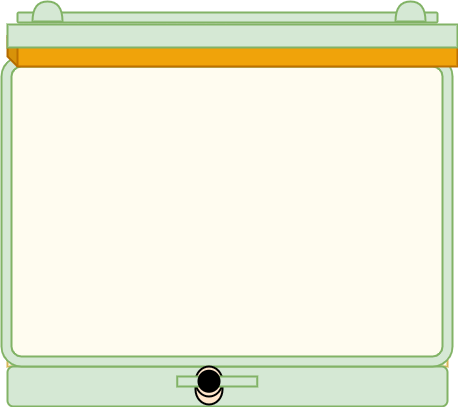
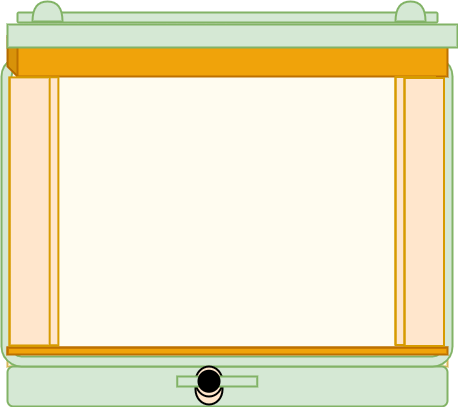
agarosegel

Changed region(s): [[0.0, 0.1179, 1.0, 0.8845]]

diff --git a/experiment/simulation/js/main.js b/experiment/simulation/js/main.js
@@ -40,7 +40,7 @@ function gel_prep() {
 
   if (selectedCheckboxes.length === 3) {
     const selectedValues = selectedCheckboxes.map(checkbox => checkbox.value);
-
+    
     // Check if the selected values are correct
     if (selectedValues.includes("Agarose powder") && selectedValues.includes("TAE/TBE Buffer") && selectedValues.includes("Ethidium Bromide (EtBr)")) {
      // alert("Correct component(s) is(are) selected.");
@@ -48,7 +48,8 @@ function gel_prep() {
       $('.modal-body').text('Correct component(s) is(are) selected.');
       document.getElementById("gelprep").disabled = true;
       document.getElementById("agel").style.display = "block";
-      window.scrollBy(0,600);
+      document.getElementById("placecomb").disabled = false;
+      
     } else {
       //alert("Incorrect component(s) is/are selected.\n The correct components are Agarose powder, TAE/TBE Buffer, and Ethidium Bromide (EtBr)");
       $('#voltalertmessage').modal('show');
@@ -62,6 +63,20 @@ function gel_prep() {
   }
 }
 
+
+function place_comb(){
+  document.getElementById("comb").style.display = "block";
+  document.getElementById("placecomb").disabled = true;
+  document.getElementById("removecomb").disabled = false;
+  window.scrollBy(0,500);
+}
+
+function remove_comb(){
+  document.getElementById("comb").style.display = "none";
+  document.getElementById("removecomb").disabled = true;
+  document.getElementById("wells").style.display = "block";
+  document.getElementById("agel").setAttribute("onclick", "moveImage()");
+}
 
 function sample_prep() {
 
@@ -730,6 +745,7 @@ function moveImage() {
   document.getElementById('agel1').style.display = "block";
   document.getElementById('agel').style.display = "none";
   document.getElementById("sampleprep").disabled = false;
+  document.getElementById("wells").style.display = "none";
   //imageag.style.display="block";
   //image1.style.display = "block";
   //image.style.transform=`translate(${topimg}%, ${lefting}%)`;

diff --git a/experiment/simulation/index.html b/experiment/simulation/index.html
@@ -64,6 +64,7 @@ Developer: Prakriti Dhang
 
 							<li> Select correct components for preparing gel in the casting tray and click on "Gel
 								Preparation" button. </li>
+								<li>Next click on "Place comb" button for formation of wells on the gel. And "Remove comb" button to view the wells.</li>
 							<li>Next, click on the gel that is being solidified in the casting
 								tray. This will place in
 								the electrophoresis chamber.</li>
@@ -186,7 +187,11 @@ Developer: Prakriti Dhang
 
 										<button class="btn btn-primary " type="button" id="gelprep" onclick="gel_prep()"
 											disabled>Gel
-											Preparation</button>
+											Preparation</button> 
+											<button class="btn btn-primary " type="button" id="placecomb" onclick="place_comb()"
+											disabled>Place comb</button>
+											<button class="btn btn-primary " type="button" id="removecomb" onclick="remove_comb()"
+											disabled>Remove comb</button>
 									</div>
 								</td>
 							</tr>
@@ -473,10 +478,12 @@ Developer: Prakriti Dhang
 						title="Casting tray">
 					<img src="./images/comb.png" id="comb" data-toggle="tooltip" data-placement="top" title="Comb">
 					<!-- Agarose gel case-->
-					<img src="./images/agarose gel.png" id="agel" onclick="moveImage()"
+					<img src="./images/agarose gel.png" id="agel" 
 						style="cursor: pointer; display: none;" data-toggle="tooltip" data-placement="top"
 						title="Agarose gel"> <!--draggable="true" ondragstart="drag(event)"-->
 					<!-- Agarose gel -->
+
+					<img src="./images/wells.png" id="wells" data-toggle="tooltip" data-placement="top" title="wells">
 
 					<img src="./images/tubesabcd.png" id="tube" style=" display: none;">
 					<!-- Samples-->

diff --git a/experiment/simulation/css/main.css b/experiment/simulation/css/main.css
@@ -41,7 +41,7 @@ Developer: Prakriti Dhang
     width: 12%;
    
     top: 19%;
-    left: 6.3%;
+    left: 6.45%;
     /*animation: age1 10s linear;*/
     transition: transform 4s ease-in-out;
     cursor: pointer;
@@ -55,9 +55,19 @@ Developer: Prakriti Dhang
     left: 4.4%;
     z-index: 2;
     cursor: pointer;
-
+display:none;
 }
 
+#wells {
+    position: absolute;
+    width: 10%;
+    height: 3%;
+    top: 25%;
+    left: 7%;
+    z-index: 2;
+    cursor: pointer;
+display:none;
+}
 
 #tube {
     position: absolute;

diff --git a/experiment/procedure.md b/experiment/procedure.md
@@ -8,7 +8,7 @@ The protocol for running an agarose gel has been described briefly in the follow
 1. **Agarose Gel Preparation**
 
       <div align="center">
-      <img src="images/castingtray.png" class="img-fluid">
+      <img src="images/step1.png" class="img-fluid">
        </div>
 
    1. Mix the agarose powder with electrophoresis buffer, TAE or TBE to the required concentration. Heat the mixture in a microwave oven to melt it.
